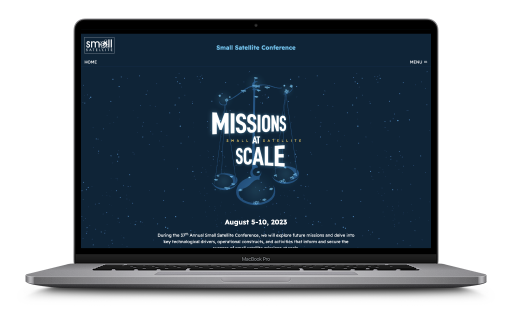
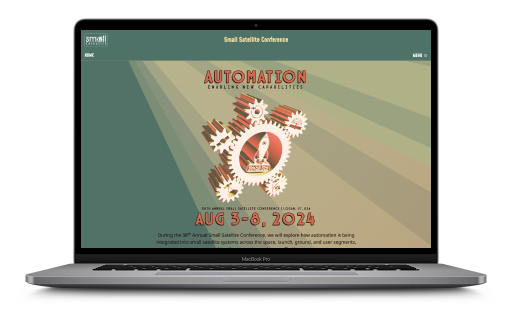
Update smallsat project

diff --git a/src/components/ProjectSmallSatArchive.svelte b/src/components/ProjectSmallSatArchive.svelte
@@ -1,22 +1,25 @@
 <script lang="ts">
-	import ProjectBtnLink from './ProjectBtnLink.svelte';
-	import ProjectIcons from './ProjectIcons.svelte';
+  import ProjectBtnLink from './ProjectBtnLink.svelte';
+  import ProjectIcons from './ProjectIcons.svelte';
 </script>
 
 <div class="bg-light rounded p-5 pb-3 mb-4">
-	<img src="/images/optimized/projects/smallsat/lg_smallsat-posters.png" alt="SmallSat Posters" />
+  <img src="/images/optimized/projects/smallsat/lg_smallsat-posters.png" alt="SmallSat Posters" />
 
-	<div class="text-center mb-3"><strong>Archived Sites</strong></div>
-	<div class="d-flex justify-content-center gap-2">
-		<ProjectBtnLink href="https://web.archive.org/web/20200722050834/https://smallsat.org/"
-			>2020</ProjectBtnLink
-		>
-		<ProjectBtnLink href="https://web.archive.org/web/20210616142210/https://smallsat.org/"
-			>2021</ProjectBtnLink
-		>
-		<ProjectBtnLink href="https://web.archive.org/web/20220602214552/https://smallsat.org/"
-			>2022</ProjectBtnLink
-		>
-		<ProjectBtnLink href="https://smallsat.org/">2023</ProjectBtnLink>
-	</div>
+  <div class="text-center mb-3"><strong>Archived Sites</strong></div>
+  <div class="d-flex justify-content-center gap-2">
+    <ProjectBtnLink href="https://web.archive.org/web/20200722050834/https://smallsat.org/"
+      >2020</ProjectBtnLink
+    >
+    <ProjectBtnLink href="https://web.archive.org/web/20210616142210/https://smallsat.org/"
+      >2021</ProjectBtnLink
+    >
+    <ProjectBtnLink href="https://web.archive.org/web/20220602214552/https://smallsat.org/"
+      >2022</ProjectBtnLink
+    >
+    <ProjectBtnLink href="https://web.archive.org/web/20230627174913/https://smallsat.org/"
+      >2024</ProjectBtnLink
+    >
+    <ProjectBtnLink href="https://smallsat.org/">2024</ProjectBtnLink>
+  </div>
 </div>

diff --git a/src/components/Footer.svelte b/src/components/Footer.svelte
@@ -1,6 +1,6 @@
 <div class="container">
   <footer class="border-top d-flex flex-wrap gap-3 justify-content-center align-items-center py-3">
-    <div class="d-flex justify-content-center">© Nathan Blaylock 2023</div>
+    <div class="d-flex justify-content-center">© Nathan Blaylock {new Date().getFullYear()}</div>
 
     <div class="d-flex flex-wrap gap-3 justify-content-center">
       <a href="https://docs.nathanblaylock.com/" target="_blank">Documentation</a>
@@ -9,7 +9,7 @@
       <a href="/privacy">Privacy</a>
     </div>
 
-    <div class="d-flex align-items-center justify-content-center ms-lg-auto">
+    <div class="hstack gap-2 ms-lg-auto">
       <a href="https://www.nngroup.com/ux-certification/verify/" target="_blank"
         ><img
           src="https://media.nngroup.com/nng-uxc-badge.png"

diff --git a/README.md b/README.md
@@ -1,12 +1,11 @@
 # nathanblaylock.com
 
-Develop: 
-
+## Develop: 
 1. Create a new branch for what you are working on
 2. `npm run dev`
 
-Deploy:
-
-1. Commit files to new branch
-2. Merge in to `master` branch. This triggers a GitHub action
-3. Check the actions status at https://github.com/ngblaylock/nathanblaylock.com/actions
+## Deploy:
+1. Update package.json version
+2. Commit files to new branch
+3. Merge in to `master` branch. This triggers a GitHub action
+4. Check the actions status at https://github.com/ngblaylock/nathanblaylock.com/actions
